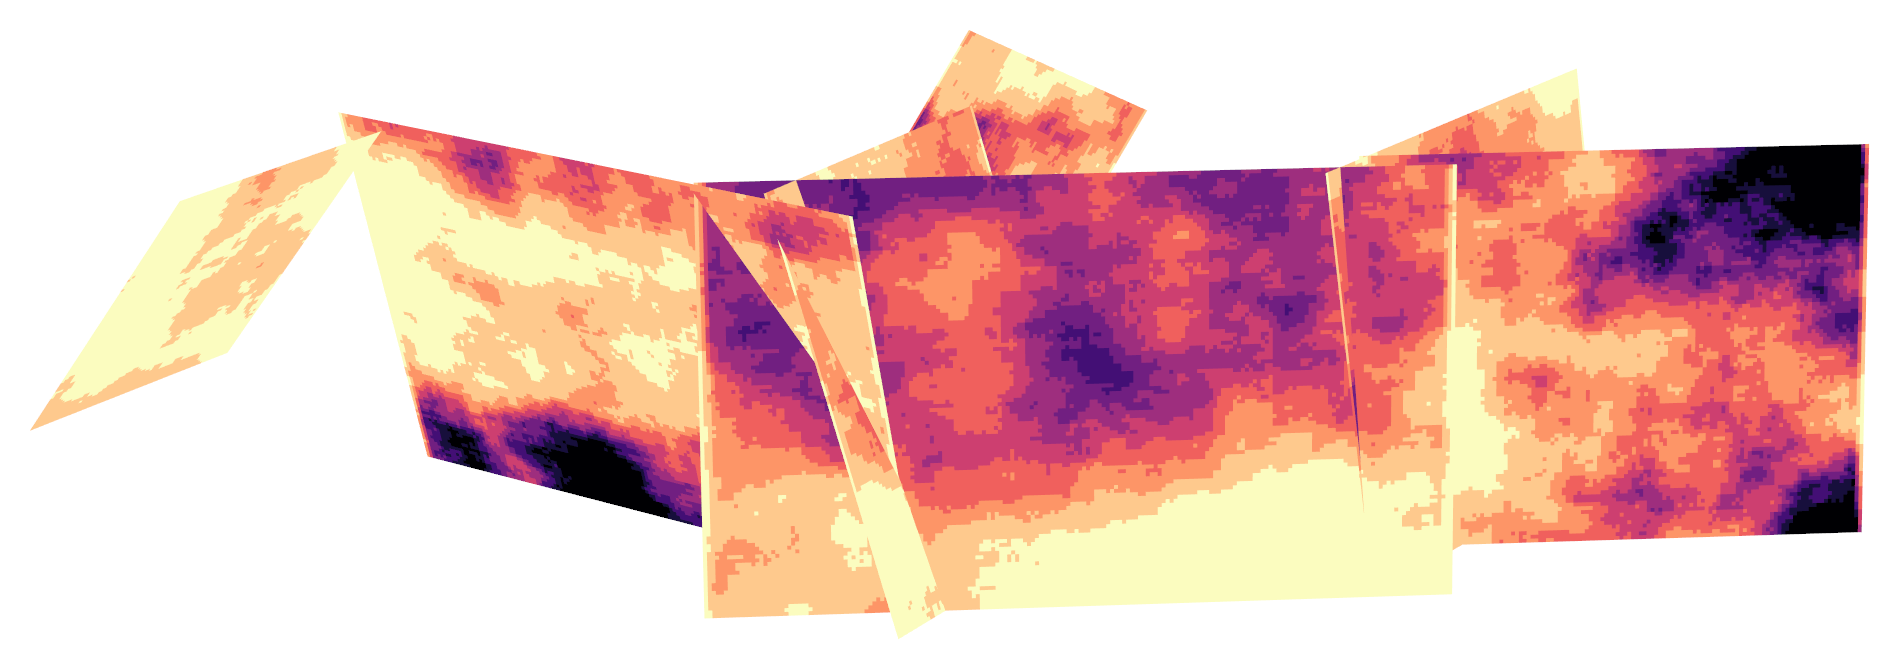
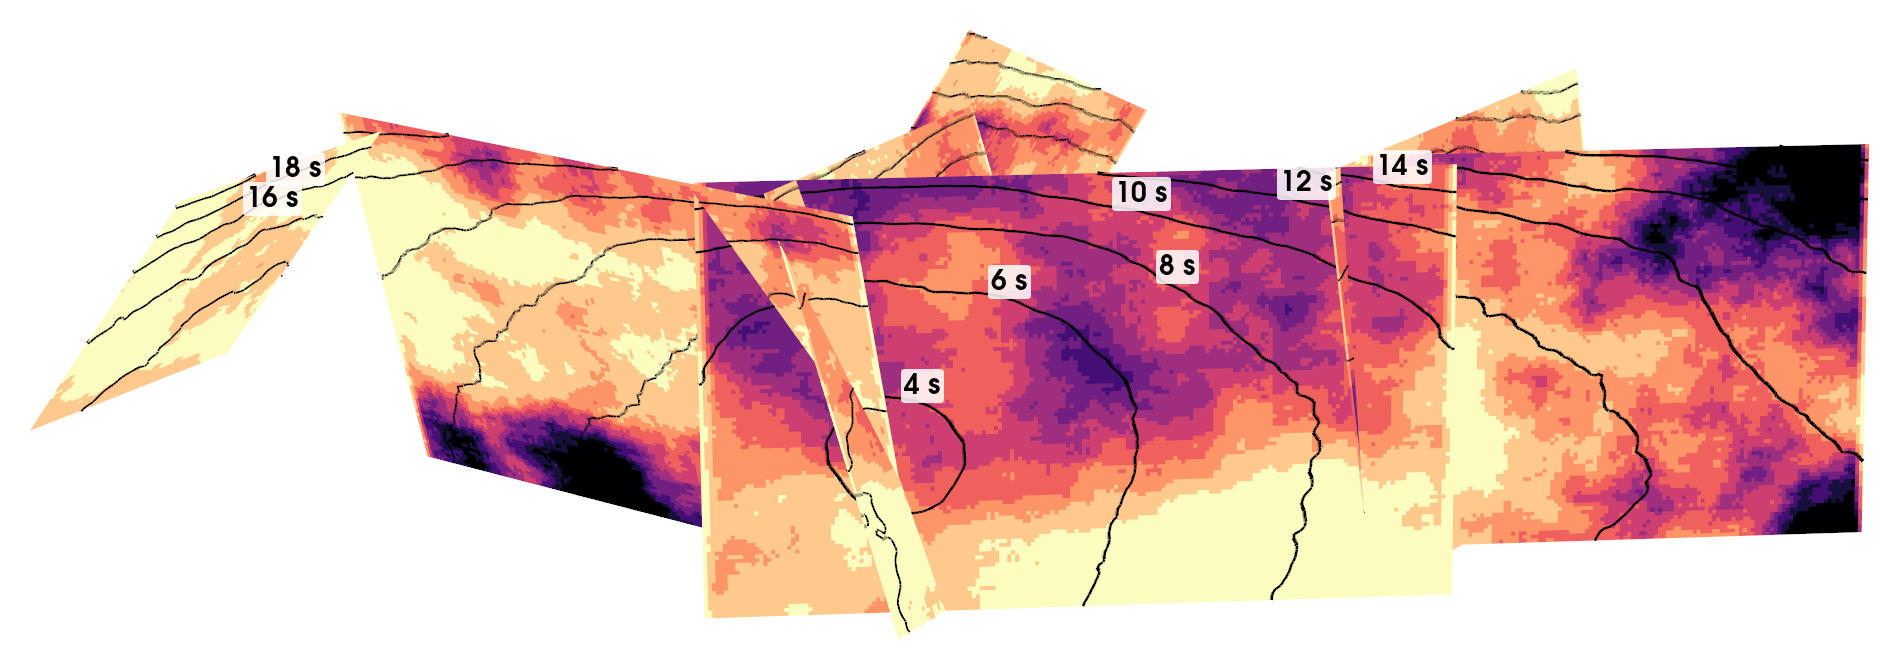
Draw the README's picture with labelled rupture-time contours, from `just hero`
docs/hero.py draws a fields file's slip on magma_r with a black contour every
two seconds of rupture time, each labelled on the nearest plane it crosses, and
`just hero` draws examples/beavan.toml and runs it. deptry leaves docs/ out, as
it does benchmarks/, since the script needs pyvista and the package doesn't.

The Beavan faults cross one another, so the example now measures its jumps
between interior cells: each child fault starts where it meets its parent.

diff --git a/docs/hero.py b/docs/hero.py
@@ -1,0 +1,135 @@
+"""Draw the README's picture: slip on a drawn rupture, with its rupture-time contours.
+
+The picture bands slip on ``magma_r``, darker for more, and black lines join the
+subfaults that start together. The faults stand at true scale, seen from the south.
+``just hero`` draws ``examples/beavan.toml`` and runs this on its fields file::
+
+    uv run --with pyvista python docs/hero.py rupture.h5 docs/images/beavan_slip.png
+"""
+
+import sys
+
+import numpy as np
+import pyvista as pv
+from PIL import Image
+from vtkmodules.vtkRenderingCore import vtkMapper
+
+from rupture_generator import read_fields
+
+BANDS = 10
+"""The number of slip bands."""
+CONTOUR_S = 2.0
+"""The rupture time between contours, in seconds."""
+ELEVATION_DEG = 20.0
+"""How far above the horizon the camera looks down from the south."""
+MARGIN_PX = 30
+"""The white border left around the faults."""
+MINIMUM_LABEL_POINTS = 20
+"""The fewest points a contour needs on a plane to carry its label there."""
+
+
+def _planes(path: str) -> list[pv.StructuredGrid]:
+    """Each plane of each segment as a grid, with slip and onset on its cells."""
+    grids = []
+    for rupture in read_fields(path).values():
+        geometry = rupture.geometry
+        edges = np.cumsum([0, *geometry.plane_cells])
+        for nodes, start, stop in zip(
+            geometry.plane_nodes(), edges[:-1], edges[1:], strict=True
+        ):
+            grid = pv.StructuredGrid(nodes[..., 0], nodes[..., 1], -nodes[..., 2])
+            # A structured grid numbers its cells with the first index varying first.
+            grid.cell_data["slip"] = rupture.slip_m[:, start:stop].ravel(order="F")
+            grid.cell_data["onset"] = rupture.onset_s[:, start:stop].ravel(order="F")
+            grids.append(grid)
+    return grids
+
+
+def _cropped(image: np.ndarray) -> Image.Image:
+    """The screenshot cut down to the faults and a margin of white."""
+    ink = np.nonzero((image < 250).any(axis=2))
+    top, left = (max(int(i.min()) - MARGIN_PX, 0) for i in ink)
+    bottom, right = (int(i.max()) + MARGIN_PX for i in ink)
+    return Image.fromarray(image[top:bottom, left:right])
+
+
+def _label_places(
+    contours: list[pv.PolyData], levels: np.ndarray
+) -> tuple[np.ndarray, list[str]]:
+    """One place per rupture time to write it, on the nearest plane that has it.
+
+    The camera looks north, so the plane with the least northing among those the
+    contour crosses is the one in front. The label sits midway along it there.
+    """
+    places, labels = [], []
+    for level in levels:
+        crossings = [
+            on
+            for lines in contours
+            if len(on := lines.points[np.isclose(lines.point_data["onset"], level)])
+            >= MINIMUM_LABEL_POINTS
+        ]
+        if not crossings:
+            continue
+        front = min(crossings, key=lambda on: on[:, 1].mean())
+        middle = front[np.argmin(np.linalg.norm(front - front.mean(axis=0), axis=1))]
+        places.append(middle)
+        labels.append(f"{level:g} s")
+    return np.array(places), labels
+
+
+def main(source: str, output: str) -> None:
+    """Draw the fields file ``source`` and save the picture as ``output``.
+
+    Parameters
+    ----------
+    source : str
+        A fields file, as ``rupture-generator`` writes for an ``.h5`` output.
+    output : str
+        Where to save the PNG.
+    """
+    grids = _planes(source)
+    slips = np.concatenate([grid.cell_data["slip"] for grid in grids])
+    onsets = np.concatenate([grid.cell_data["onset"] for grid in grids])
+    levels = np.arange(CONTOUR_S, onsets.max(), CONTOUR_S)
+
+    # Lines lying on a face would flicker in and out of it without an offset.
+    vtkMapper.SetResolveCoincidentTopologyToPolygonOffset()
+    plotter = pv.Plotter(off_screen=True, window_size=(2400, 1100))
+    plotter.set_background("white")
+    drawn = []
+    for grid in grids:
+        plotter.add_mesh(
+            grid,
+            scalars="slip",
+            cmap="magma_r",
+            n_colors=BANDS,
+            clim=(0.0, float(np.quantile(slips, 0.99))),
+            lighting=False,
+            show_scalar_bar=False,
+        )
+        contours = grid.cell_data_to_point_data().contour(levels, scalars="onset")
+        if contours.n_points:
+            plotter.add_mesh(contours, color="black", line_width=4.0, lighting=False)
+            drawn.append(contours)
+    places, labels = _label_places(drawn, levels)
+    plotter.add_point_labels(
+        places,
+        labels,
+        font_size=28,
+        text_color="black",
+        shape_color="white",
+        shape_opacity=0.85,
+        margin=4,
+        show_points=False,
+        always_visible=False,
+    )
+    plotter.view_xz()
+    plotter.camera.elevation = ELEVATION_DEG
+    plotter.reset_camera()
+    plotter.camera.zoom(1.8)
+    _cropped(plotter.screenshot(return_img=True)).save(output, optimize=True)
+
+
+if __name__ == "__main__":
+    main(*sys.argv[1:3])

diff --git a/README.md b/README.md
@@ -6,9 +6,10 @@
 
 *One draw of `examples/beavan.toml`: the 2010 Mw 7.1 Darfield earthquake as Beavan's
 seven-fault source model has it, gridded at 0.1 km and seen from the south at true
-scale. Darker is more slip. The rupture starts on the Charing Cross fault and
-triggers the other six in a fixed order, each drawing its own slip field and scaling it
-to its own magnitude.*
+scale. Darker is more slip, and the black lines are the rupture front every two
+seconds. The rupture starts on the Charing Cross fault and triggers the other six in a
+fixed order, each drawing its own slip field and scaling it to its own magnitude.
+`just hero` draws it again.*
 
 Kinematic rupture models for ground-motion simulation. Given a fault system and its
 magnitudes, the generator draws a slip distribution and works out when each subfault
